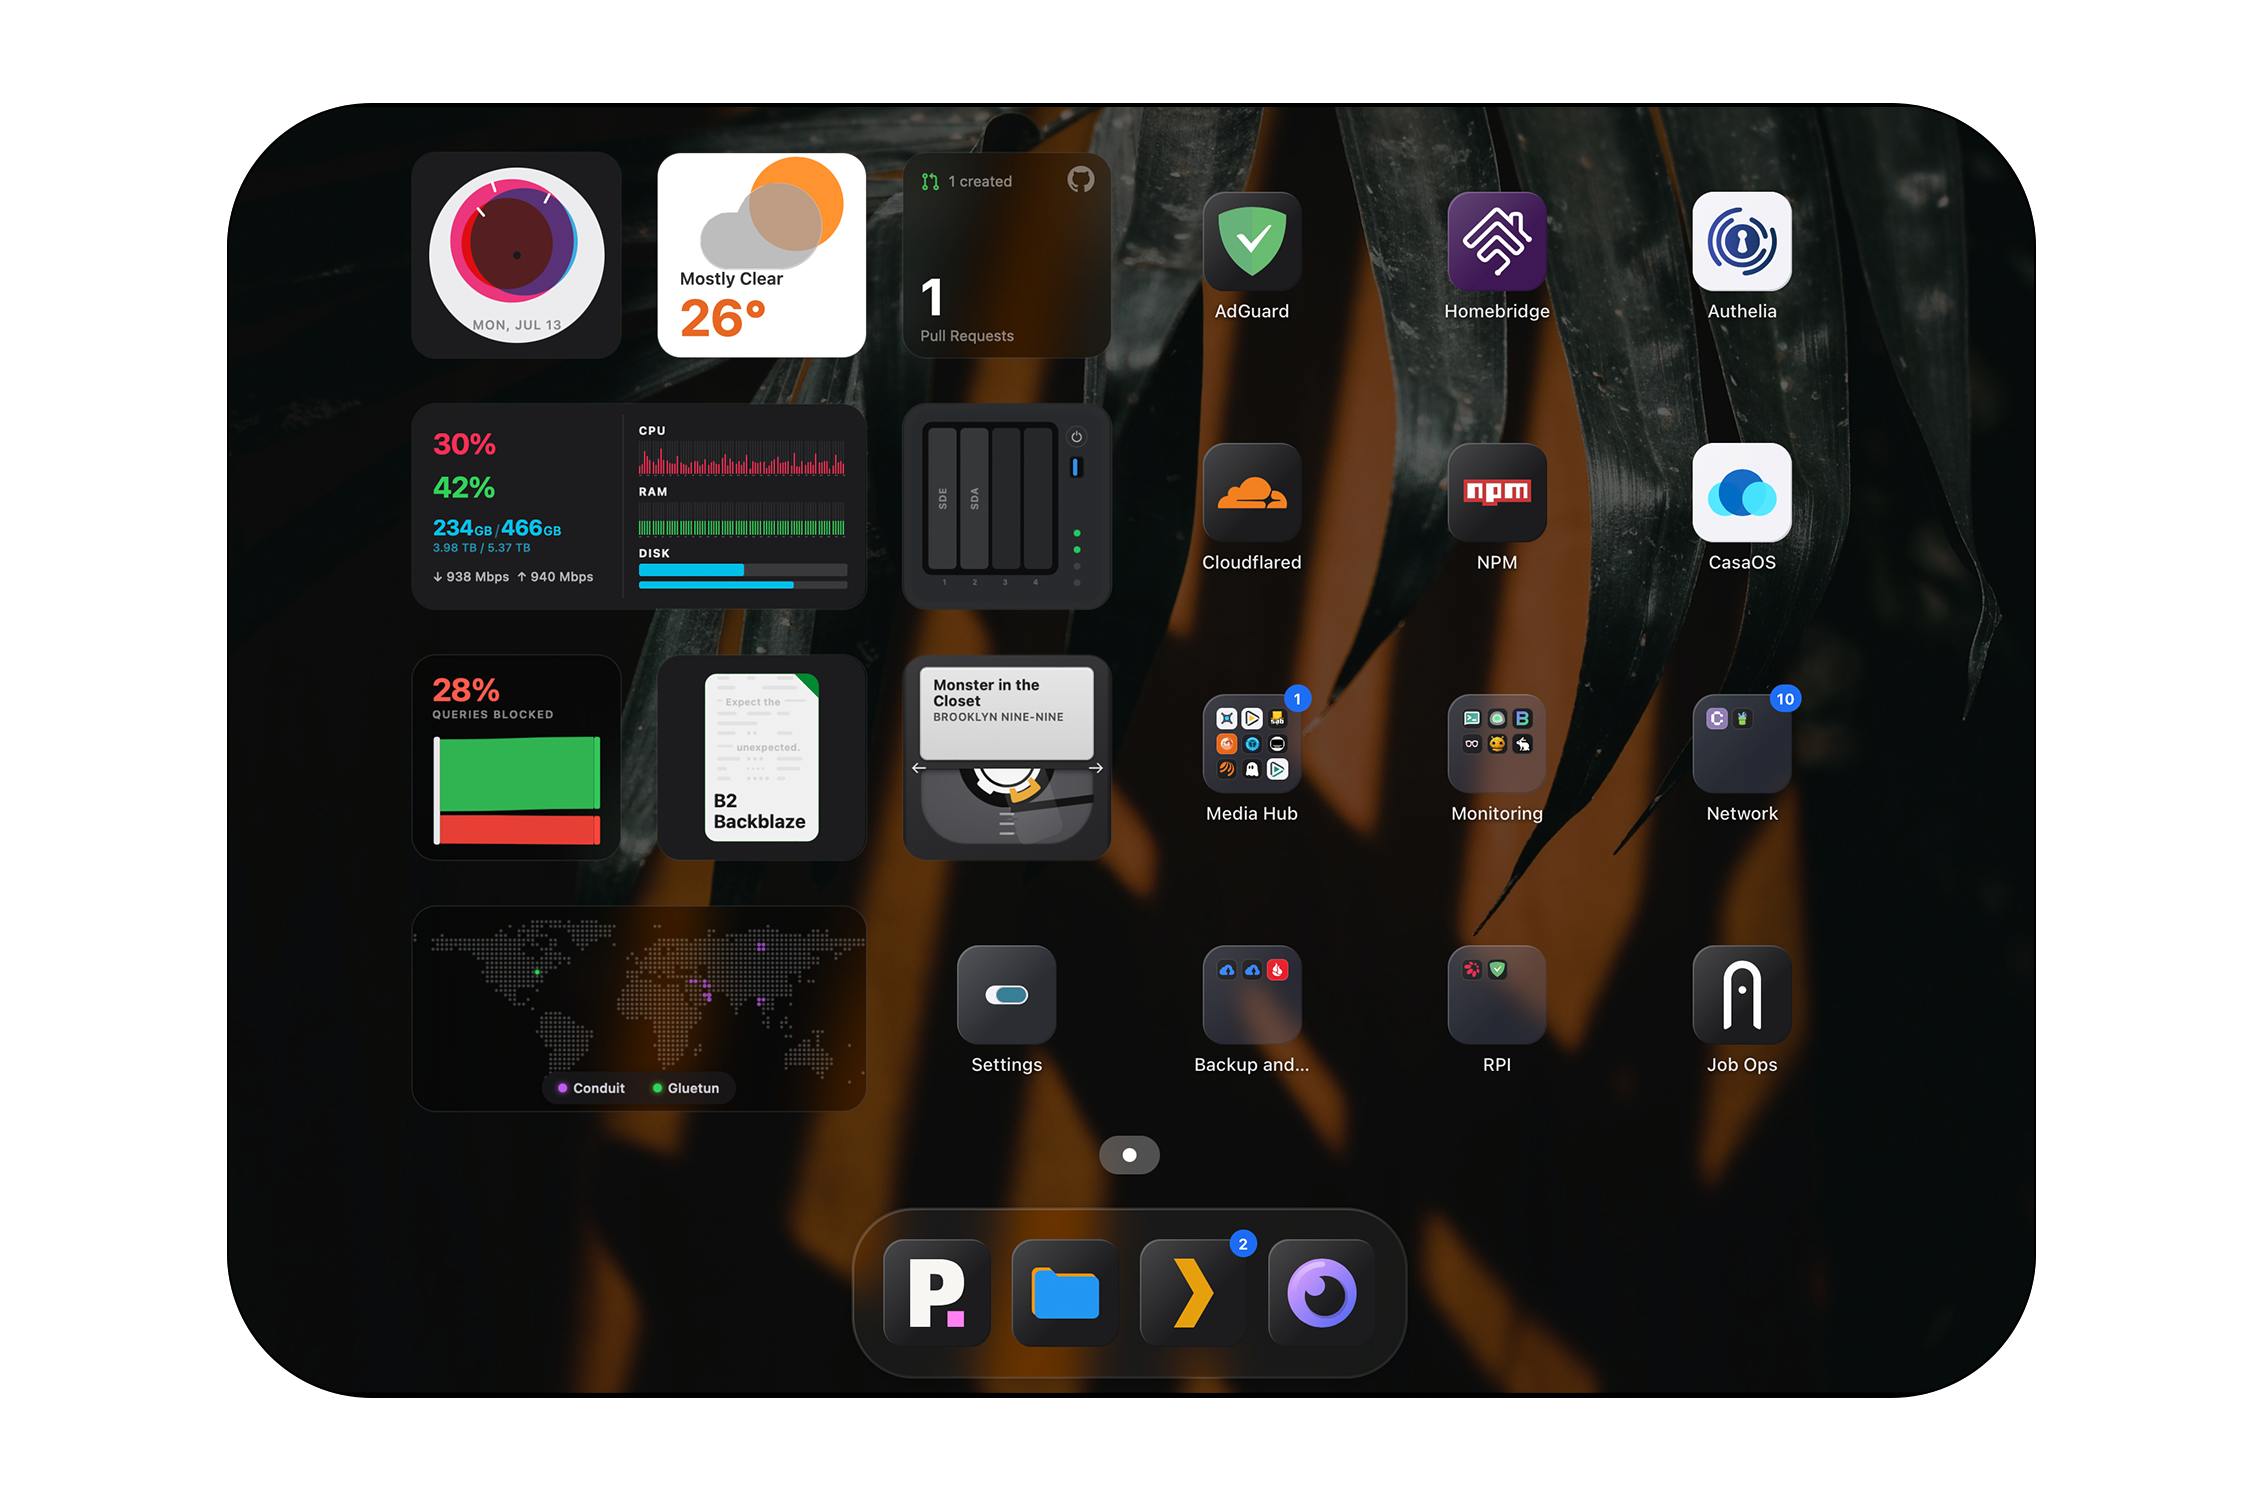
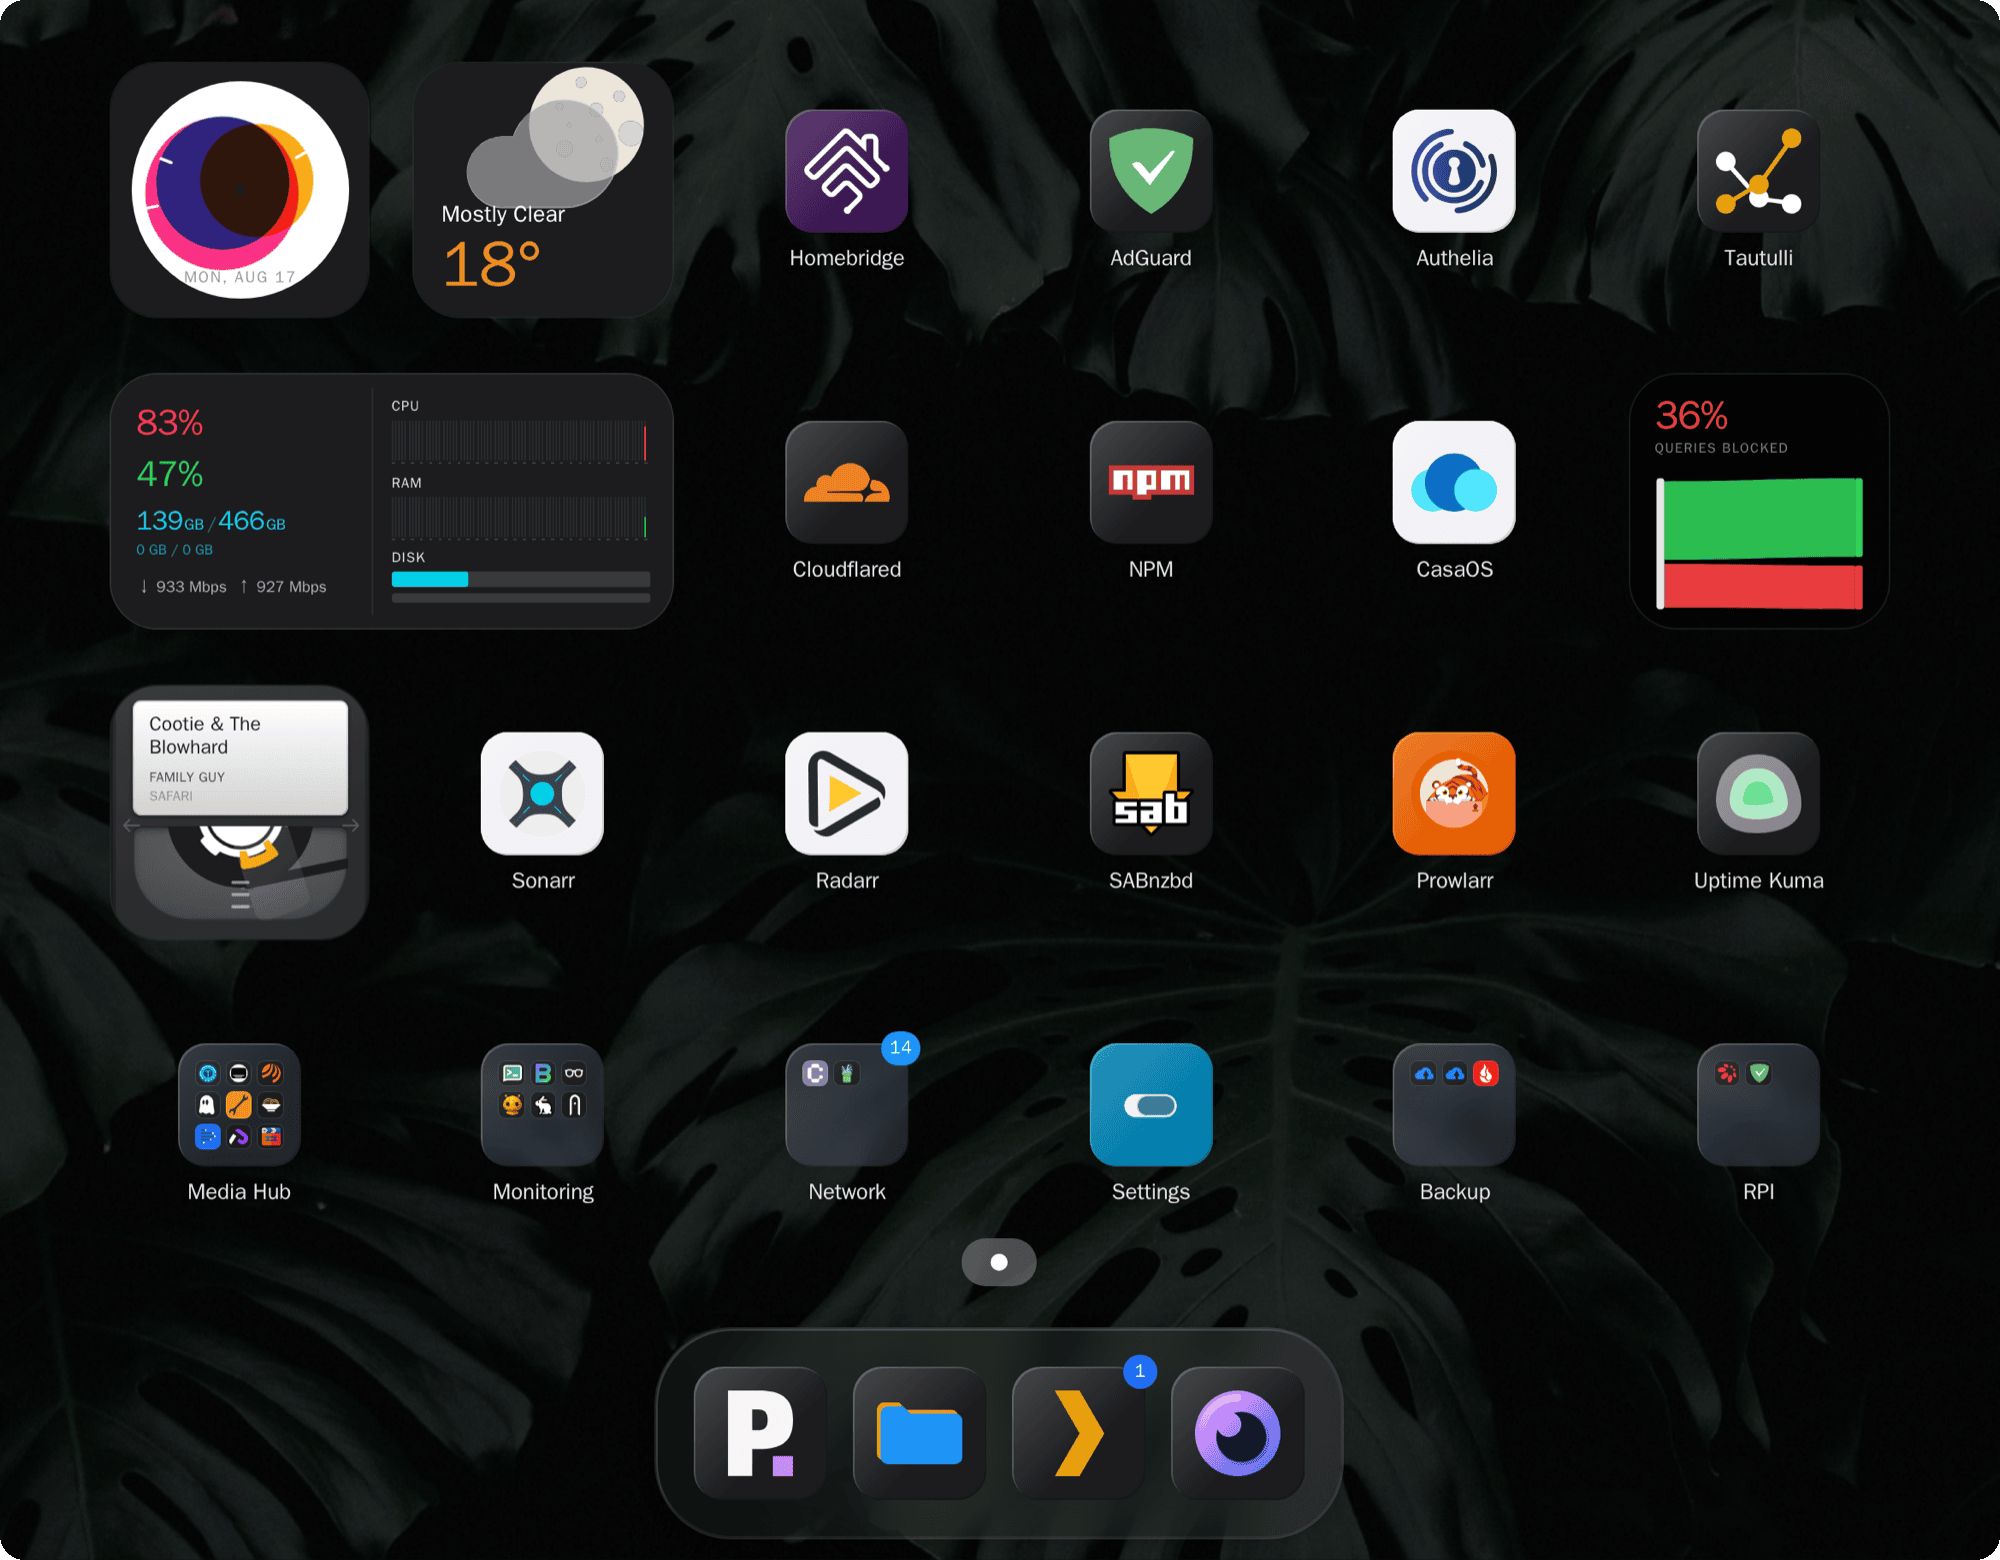
Docs: refresh the screenshots and document the Unraid install path (#118)

diff --git a/README.md b/README.md
@@ -22,12 +22,11 @@ Most dashboards are a wall of numbers and charts. Stackyard is the opposite: a c
 
 - [Why Stackyard](#why-stackyard)
 - [Getting started](#getting-started)
-- [Building from source](#building-from-source)
-- [Configuring](#configuring)
 - [Icons](#icons)
 - [Widgets](#widgets)
 - [Live activity badges](#live-activity-badges)
 - [Security](#security)
+- [Building from source](#building-from-source)
 - [Contributing](#contributing)
 - [Changelog](#changelog)
 - [License](#license)
@@ -40,7 +39,7 @@ Most dashboards are a wall of numbers and charts. Stackyard is the opposite: a c
 - **Configured by clicking, not by editing files.** Everything is set up in the web UI, with config import and export.
 - **No dependencies.** Review it once and stop worrying about the supply chain.
 
-Has a mobile layout, and is available in English, Persian, Chinese, Spanish, German, and French.
+Has a mobile layout and ships in English, Persian, Chinese, Spanish, German, and French.
 
 Add it to a phone's home screen and it opens in its own window, without browser chrome. There is no offline mode: every tile shows live data, so the dashboard needs to reach your services.
 
@@ -48,7 +47,7 @@ Add it to a phone's home screen and it opens in its own window, without browser 
 
 You need Docker.
 
-**Using Docker Compose** (`docker-compose.yml`):
+**Using Docker Compose:**
 
 ```yaml
 services:
@@ -79,11 +78,48 @@ docker run -d \
   ghcr.io/sandobserver/stackyard:latest
 ```
 
-Then open `http://localhost:8700` and set things up from the admin app on the dashboard (or go to `/admin`). Config and uploaded icons persist in `./data` and `./icons`.
+**On Unraid:** install it from [Community Apps](https://ca.unraid.net/apps/stackyard-0ara4ku0sjjwqy).
 
-The same image is published to Docker Hub as `sandobserver/stackyard`, if you would rather pull from there. Prefer `ghcr.io`: it is the registry the [release signature](docs/security.md#verifying-a-release-image) covers.
+Then open `http://localhost:8700` and set everything up at `/admin`. Config and uploaded icons persist in `./data` and `./icons`.
 
-The [`docker-compose.yml`](docker-compose.yml) in the repo is the recommended version: it adds resource limits, dropped capabilities, and commented options for a reverse proxy, host access, and Docker health checks.
+The same image is on Docker Hub as `sandobserver/stackyard`. Prefer `ghcr.io`: it is the registry the [release signature](docs/security.md#verifying-a-release-image) covers.
+
+The repo's [`docker-compose.yml`](docker-compose.yml) is the recommended version: it adds resource limits, dropped capabilities, and commented options for a reverse proxy, host access, and Docker health checks.
+
+General holds the title, language, password protection, and import and export. Import also reads a gethomepage or Dashy YAML file.
+
+![Stackyard admin, General section](docs/screenshot-admin.png)
+
+## Icons
+
+App icons resolve automatically by name from the community [dashboard-icons](https://github.com/homarr-labs/dashboard-icons) set. You can also upload your own; custom icons are stored in `./icons`.
+
+## Widgets
+
+Widgets and the services they read:
+
+- **Clock**
+- **Now Playing**: Plex, Jellyfin, Emby, Navidrome
+- **Weather**: Open-Meteo (no API key required)
+- **DNS**: AdGuard, Pi-hole, Technitium, NextDNS
+- **GitHub**: contribution graph and pull requests
+- **Books**: Audiobookshelf, Komga, Kavita
+- **System stats**: CPU, memory, disk, throughput, uptime, and network speed from SpeedTest Tracker or MySpeed
+- **Disk health**: TrueNAS, Scrutiny
+- **Backup**: Duplicati, Kopia
+- **Connections**: Gluetun, Psiphon Conduit, Netbird, Plausible, Umami
+
+Adding one is a folder plus one registry entry, with no changes to the rest of the app. See [docs/widgets.md](docs/widgets.md).
+
+## Live activity badges
+
+Give Stackyard an API endpoint and it lists the numbers in the response, so you pick the one you want on the tile. Point it at Sonarr's queue and the Sonarr tile carries a count of episodes still downloading. **Show From** sets a floor, so a queue that is never quite empty stays quiet until it matters.
+
+![Configuring a live activity badge](docs/screenshot-app-edit.png)
+
+## Security
+
+Stackyard never returns stored secrets to the browser, guards the URLs you test in the admin UI against SSRF and pins the resolved IP, and bounds every upstream call so one slow service cannot hang the dashboard. Some features trade safety for convenience and are opt-in with warnings. Read [docs/security.md](docs/security.md) before exposing Stackyard beyond your LAN.
 
 ## Building from source
 
@@ -94,46 +130,6 @@ docker build -t stackyard:local .
 ```
 
 Then run `stackyard:local` the same way as above. For working on the code without Docker, see [CONTRIBUTING.md](CONTRIBUTING.md).
-
-## Configuring
-
-Everything is configured in the admin UI (`/admin`), split into a few sections:
-
-- **General**: title, description, and your server's **Host IP** (used to allow your own server in badge URLs and SSRF checks). Also **Monitoring** (logging level, Docker container health checks, and the socket URL used to reach Docker), optional **password protection**, and config **import / export**. Backup also imports a gethomepage or Dashy YAML config: links and folders are added to the dashboard, existing items are left alone, and anything that cannot be carried across is listed before you confirm.
-- **Appearance**: wallpaper and the overall look. **Settings Display Mode** picks the appearance of the Settings pages: System Default, Light or Dark. It is stored in the browser and applies to that device only. Also **Keep Screen Awake**, which stops the screen dimming while the dashboard is open. Browsers allow this over HTTPS only.
-- **Dashboard**: add and arrange your apps, folders, and widgets, and configure each one (including live activity badges).
-- **About**: version and links.
-
-## Icons
-
-App icons resolve automatically by name from the community [dashboard-icons](https://github.com/homarr-labs/dashboard-icons) set. Stackyard fetches each icon once and keeps it in memory, so the CDN is not contacted on every page load. You can also upload your own; custom icons are stored in `./icons`.
-
-## Widgets
-
-Current widgets and the services they integrate with:
-
-- **Clock**
-- **Now Playing**: Plex, Jellyfin, Emby, Navidrome
-- **Weather**: Open-Meteo (no API key required)
-- **DNS**: AdGuard, Pi-hole, Technitium, NextDNS
-- **GitHub**: contribution graph and pull requests
-- **Books**: Audiobookshelf, Komga, Kavita
-- **System stats**: CPU, memory, disk usage, network speed (SpeedTest Tracker, MySpeed), RX/TX throughput, and uptime.
-- **Disk health**: TrueNAS, Scrutiny
-- **Backup**: Duplicati, Kopia
-- **Connections**: Gluetun, Psiphon Conduit, Netbird, Plausible, Umami
-
-Adding one is a folder plus one registry entry, with no changes to the rest of the app. See [docs/widgets.md](docs/widgets.md).
-
-## Live activity badges
-
-Instead of writing a widget to surface one number, point Stackyard at any API endpoint and it lists the values in the response. Pick the one you care about (pending requests in a media server, items in a queue) and it becomes a small badge on that tile. Any service with an API, without code.
-
-Set **Show From** to badge only counts at or above a number, so a queue that is never quite empty stays quiet until it matters.
-
-## Security
-
-Stackyard never returns stored secrets to the browser, guards the URLs you test in the admin UI against SSRF and pins the resolved IP, and bounds every upstream call so one slow service cannot hang the dashboard. Some features trade safety for convenience and are opt-in with warnings. Read [docs/security.md](docs/security.md) before exposing Stackyard beyond your LAN.
 
 ## Contributing
 
